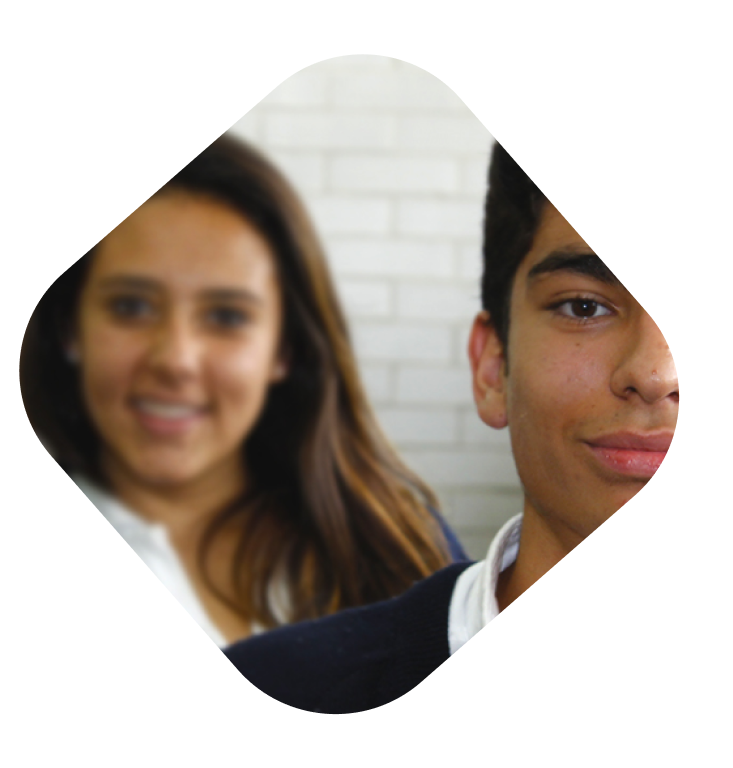
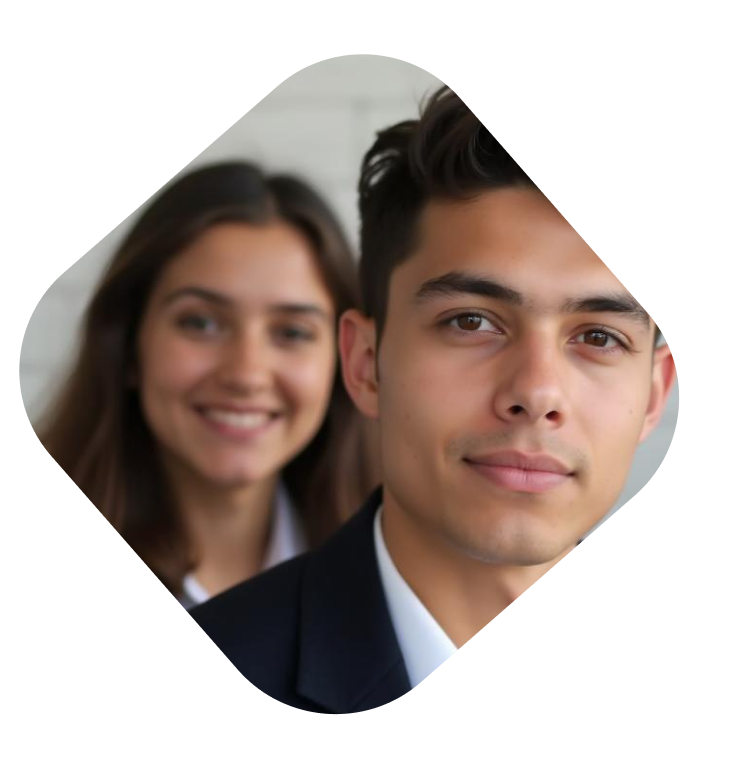
update 3
cambio de imagenes

diff --git a/campañas.html b/campañas.html
@@ -87,7 +87,7 @@
         <div class="container">
             <div class="row card-content">
                 <div class="col-md-12 col-lg-6 col-xs-12 text-center">
-                    <img src="img/donar.png" alt="Imagen" class="img-fluid">
+                    <img src="img/donar-1.png" alt="Imagen" class="img-fluid">
                 </div>
                 <div class="col-md-12 col-lg-6 col-xs-12 center ">
                     <h2 class="mt-3"> ¡Juntos, podemos hacer realidad estos sueños y transformar vidas!</h2>

diff --git a/index.html b/index.html
@@ -163,7 +163,7 @@
         
 
         <div class="col-md-6 col-12" id="acerca">
-            <img src="img/team.png" alt="Imagen" class="img-fluid " style="border-radius: 45px; color: #DA5466;">
+            <img src="img/campaña-apoyo.png" alt="Imagen" class="img-fluid " style="border-radius: 45px; color: #DA5466;">
         </div>
         <div class="col-md-6 col-12 card-content">
             <div class=" text-center text-card">

diff --git a/css/global.css b/css/global.css
@@ -34,7 +34,7 @@ p {
 
 
 .hero-image {
-    background-image: url('../img/Header.png');
+    background-image: url('../img/Hero-bg.png');
     background-size: cover;
     background-position: center;
     height: 800px;
